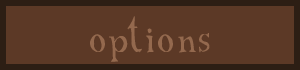
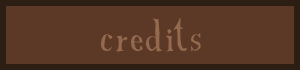
v 0.47
Credits screen and fishing

Changed region(s): [[0.3, 0.2286, 0.72, 0.8857]]

diff --git a/src/com/bourneless/entity/Person.java b/src/com/bourneless/entity/Person.java
@@ -72,6 +72,7 @@ public class Person extends Entity implements Serializable {
 
 	private boolean hasTree;
 	private boolean hasRock;
+	private boolean hasLake;
 
 	private Tile destinationTile;
 	private Tile currentTile;
@@ -79,6 +80,7 @@ public class Person extends Entity implements Serializable {
 	private boolean isWatering = false;
 	private boolean isMining = false;
 	private boolean isCutting = false;
+	private boolean isFishing = false;
 
 	private Inventory inventory;
 
@@ -91,6 +93,8 @@ public class Person extends Entity implements Serializable {
 
 	private Animation walkAnimation;
 	private boolean gotNightDestination;
+
+	private Lake lake;
 
 	private Timer waterTimer = new Timer(3000, new ActionListener() {
 		@Override
@@ -137,12 +141,26 @@ public class Person extends Entity implements Serializable {
 		}
 	});
 
+	private Timer fishingTimer = new Timer(3000, new ActionListener() {
+		@Override
+		public void actionPerformed(ActionEvent e) {
+			hasLake = false;
+			isFishing = false;
+			destinationPos = firePos;
+			inventory.addRawFish(1);
+			carrying = true;
+			stamina -= 10;
+			((Timer) e.getSource()).stop();
+		}
+	});
+
 	public Person(Item fire, Map map, God god, boolean carryingStockpile,
-			Cycle cycle) {
+			Cycle cycle, Lake lake) {
 		this.entityName = "Person";
 		godName = god.getName();
 		getSex();
 		this.name = setName();
+		this.lake = lake;
 
 		walkAnimation = new Animation(Main.resourceLoader.walkingImages, 100);
 		this.carryingStockpile = carryingStockpile;
@@ -252,6 +270,14 @@ public class Person extends Entity implements Serializable {
 			mineRock();
 		} else if (role == Role.woodcutter) {
 			cutTree();
+		} else if (role == Role.fisherman) {
+			if(hasLake) {
+				fish();
+			}
+			if (!hasLake) {
+				getLakeDestination();
+			}
+			
 		}
 
 		if (length <= 10 && length >= -10) {
@@ -357,6 +383,10 @@ public class Person extends Entity implements Serializable {
 			g.drawImage(Main.resourceLoader.hatchet,
 					pos.x + renderX + image.getWidth() - 6, pos.y + renderY
 							+ image.getHeight() / 2 + 5, null);
+		} else if (isFishing) {
+			g.drawImage(Main.resourceLoader.rod,
+					pos.x + renderX + image.getWidth() - 10, pos.y + renderY
+							- image.getHeight() / 4 + 5, null);
 		}
 	}
 
@@ -534,6 +564,33 @@ public class Person extends Entity implements Serializable {
 
 	}
 
+	public void getLakeDestination() {
+		if (!needStamina && !carrying && !hasLake && cycle.getDay()) {
+			hasLake = true;
+			hasDestination = true;
+			atDestination = false;
+			int getY = random.nextInt(Main.resourceLoader.lake.getHeight());
+			int getX = 0;
+			double rightLength = Math
+			.sqrt((lake.getPos().x + Main.resourceLoader.lake.getWidth() + 10 - pos.x)
+					* (lake.getPos().x + Main.resourceLoader.lake.getWidth() + 10 - pos.x)
+					+ (lake.getPos().y + getY - pos.y)
+					* (lake.getPos().y + getY - pos.y));
+			double leftLength = ((lake.getPos().x - 10 - pos.x)
+					* (lake.getPos().x - 10 - pos.x)
+					+ (lake.getPos().y + getY - pos.y)
+					* (lake.getPos().y + getY - pos.y));
+			double upLength;
+			double downLength;
+			if(rightLength < leftLength) {
+				getX = lake.getPos().x + Main.resourceLoader.lake.getWidth() + 20;
+			} else {
+				getX = lake.getPos().x - 20;
+			}
+			this.destinationPos = new Vector2(getX, lake.getPos().y + getY);
+		}
+	}
+
 	public boolean hasTree() {
 		return hasTree;
 	}
@@ -602,6 +659,12 @@ public class Person extends Entity implements Serializable {
 						+ " Rock to the Stockpile.");
 				stockpile.addRock(inventory.getRockCount());
 				inventory.removeRock();
+			}
+			if (inventory.getRawFishCount() > 0) {
+				System.out.println("Adding " + inventory.getRawFishCount()
+						+ " Raw Fish to the Stockpile.");
+				stockpile.addRawFish(inventory.getRawFishCount());
+				inventory.removeRawFish();
 			}
 			carrying = false;
 			hasDestination = false;
@@ -733,7 +796,7 @@ public class Person extends Entity implements Serializable {
 			gotNightDestination = false;
 			if (!hasDestination && stamina > 5 && !carryingStockpile
 					&& !carrying) {
-				if (!hasTree && !hasRock) {
+				if (!hasTree && !hasRock && !hasLake) {
 
 					int getDestination = random.nextInt(300);
 					if (getDestination == 1) {
@@ -830,6 +893,13 @@ public class Person extends Entity implements Serializable {
 		}
 	}
 
+	public void fish() {
+		if (length <= 10 && length >= -10) {
+			isFishing = true;
+			fishingTimer.start();
+		}
+	}
+
 	public void cutTree() {
 		if (hasTree) {
 			if (length <= 10 && length >= -10) {
@@ -843,7 +913,6 @@ public class Person extends Entity implements Serializable {
 		if (hasTree) {
 			if (length <= 10 && length >= -10) {
 				isWatering = true;
-
 				waterTimer.start();
 			}
 		}

diff --git a/src/com/bourneless/util/ResourceLoader.java b/src/com/bourneless/util/ResourceLoader.java
@@ -16,6 +16,8 @@ import javax.sound.sampled.FloatControl;
 
 public class ResourceLoader {
 
+	public BufferedImage icon;
+	
 	// Splash Assets
 	public BufferedImage splashImage;
 
@@ -46,6 +48,8 @@ public class ResourceLoader {
 
 	public Clip menuMusic;
 	public Clip menuClick;
+	
+	public BufferedImage creditRoll;
 
 	// Tile Assets
 
@@ -119,6 +123,7 @@ public class ResourceLoader {
 	public BufferedImage wateringcan;
 	public BufferedImage pickaxe;
 	public BufferedImage hatchet;
+	public BufferedImage rod;
 
 	// Mechanics
 	public BufferedImage lightsource;
@@ -133,6 +138,7 @@ public class ResourceLoader {
 	public ArrayList<String> femaleNames = new ArrayList<String>();
 
 	public ResourceLoader() {
+		icon = getBufferedImage("res/valleyIcon.png");
 		splashImage = getBufferedImage("res/splash.png");
 
 		menuTitle = getBufferedImage("res/menuTitle.png");
@@ -144,6 +150,7 @@ public class ResourceLoader {
 		saveImage = getBufferedImage("res/saveImage.png");
 		quit = getBufferedImage("res/quit.png");
 		options = getBufferedImage("res/options.png");
+		creditRoll = getBufferedImage("res/creditroll.png");
 
 		grass = getBufferedImage("res/tiles/grassTile.png");
 		cow = getBufferedImage("res/gameobjects/cow.png");
@@ -237,6 +244,7 @@ public class ResourceLoader {
 		wateringcan = getBufferedImage("res/skillobjects/wateringcan.png");
 		pickaxe = getBufferedImage("res/skillobjects/pickaxe.png");
 		hatchet = getBufferedImage("res/skillobjects/hatchet.png");
+		rod = getBufferedImage("res/skillobjects/rod.png");
 
 		rock = getBufferedImage("res/gameobjects/rock.png");
 		rockMined = getBufferedImage("res/gameobjects/rockMined.png");

diff --git a/src/com/bourneless/entity/Stockpile.java b/src/com/bourneless/entity/Stockpile.java
@@ -12,8 +12,9 @@ import com.bourneless.mechanics.Cycle;
 
 public class Stockpile extends Entity implements Serializable {
 
-	private int woodcount;
-	private int rockcount;
+	private int woodCount;
+	private int rockCount;
+	private int rawFishCount;
 
 	public Stockpile(Vector2 pos) {
 		this.entityName = "Stockpile";
@@ -22,8 +23,8 @@ public class Stockpile extends Entity implements Serializable {
 		this.image = Main.resourceLoader.stockpile;
 		this.rect = new Rectangle(this.pos.x, this.pos.y, image.getWidth(),
 				image.getHeight());
-		woodcount = 0;
-		rockcount = 0;
+		woodCount = 0;
+		rockCount = 0;
 	}
 
 	public void update(int renderX, int renderY, Map map, Cycle cycle) {
@@ -39,19 +40,27 @@ public class Stockpile extends Entity implements Serializable {
 	}
 
 	public void addWood(int i) {
-		this.woodcount += i;
+		this.woodCount += i;
 	}
 
 	public void addRock(int i) {
-		this.rockcount += i;
+		this.rockCount += i;
+	}
+	
+	public void addRawFish(int i) {
+		this.rawFishCount += i;
 	}
 
 	public int getWood() {
-		return this.woodcount;
+		return this.woodCount;
 	}
 
 	public int getRock() {
-		return this.rockcount;
+		return this.rockCount;
+	}
+	
+	public int getRawFishCount() {
+		return this.getRawFishCount();
 	}
 
 }

diff --git a/src/com/bourneless/screen/CreditsScreen.java b/src/com/bourneless/screen/CreditsScreen.java
@@ -1,0 +1,40 @@
+package com.bourneless.screen;
+
+import java.awt.Color;
+import java.awt.Graphics2D;
+import java.awt.event.KeyEvent;
+import java.awt.image.BufferedImage;
+
+import com.bourneless.main.Main;
+import com.bourneless.math.Vector2;
+
+public class CreditsScreen extends Screen {
+
+	public BufferedImage creditRoll;
+	public Vector2 creditPos;
+
+	public CreditsScreen() {
+		creditRoll = Main.resourceLoader.creditRoll;
+		creditPos = new Vector2(Main.GAME_WIDTH / 2
+				- creditRoll.getWidth() / 2, Main.GAME_HEIGHT);
+	}
+
+	public void update() {
+		creditPos.y--;
+		if(creditPos.y < 0 - creditRoll.getHeight() - 100) {
+			Main.game.setScreen(new MenuScreen());
+		}
+	}
+
+	public void paint(Graphics2D g) {
+		g.setColor(Color.BLACK);
+		g.fillRect(0, 0, Main.GAME_WIDTH, Main.GAME_HEIGHT);
+		g.drawImage(creditRoll, creditPos.x, creditPos.y, null);
+	}
+	
+	public void keyPressed(KeyEvent e) {
+		if(e.getKeyCode() == 27) {
+			Main.game.setScreen(new MenuScreen());
+		}
+	}
+}

diff --git a/src/com/bourneless/person/Inventory.java b/src/com/bourneless/person/Inventory.java
@@ -4,35 +4,48 @@ import java.io.Serializable;
 
 public class Inventory implements Serializable {
 
-	private int rockcount = 0;
-	private int woodcount = 0;
+	private int rockCount = 0;
+	private int woodCount = 0;
+	private int rawFishCount = 0;
 
 	public Inventory() {
 
 	}
 
 	public int getRockCount() {
-		return this.rockcount;
+		return this.rockCount;
 	}
 
 	public int getWoodCount() {
-		return this.woodcount;
+		return this.woodCount;
+	}
+	
+	public int getRawFishCount() {
+		return this.rawFishCount;
 	}
 
 	public void addRock(int i) {
-		rockcount += i;
+		rockCount += i;
 	}
 
 	public void addWood(int i) {
-		woodcount += i;
+		woodCount += i;
+	}
+	
+	public void addRawFish(int i) {
+		rawFishCount += i;
 	}
 	
 	public void removeRock() {
-		this.rockcount = 0;
+		this.rockCount = 0;
 	}
 	
 	public void removeWood() {
-		this.woodcount = 0;
+		this.woodCount = 0;
+	}
+	
+	public void removeRawFish() {
+		this.rawFishCount = 0;
 	}
 
 }

diff --git a/src/com/bourneless/game/Map.java b/src/com/bourneless/game/Map.java
@@ -284,10 +284,9 @@ public class Map implements Serializable {
 
 					if (spawnPerson == 1 && cycle.getDay()) {
 						System.out.println("Spawning Person..");
-
 						population++;
 						Person person = new Person(fire, this, god,
-								giveStockpile, cycle);
+								giveStockpile, cycle, lake);
 						giveStockpile = false;
 						entities.add(person);
 						people.add(person);

diff --git a/src/com/bourneless/screen/MenuScreen.java b/src/com/bourneless/screen/MenuScreen.java
@@ -104,6 +104,8 @@ public class MenuScreen extends Screen {
 				Main.game.setScreen(new MapScreen());
 			} else if(mouseRect.intersects(buttons[1].getRect())) {
 				loadGame();
+			} else if (mouseRect.intersects(buttons[2].getRect())) {
+				Main.game.setScreen(new CreditsScreen());
 			}
 		} else {
 			menuTitlePos.y = endMenuTitlePos.y;

diff --git a/src/com/bourneless/main/Main.java b/src/com/bourneless/main/Main.java
@@ -40,5 +40,6 @@ public class Main {
 		frame.setLocationRelativeTo(null); // Make window appear in centre of screen.
 		frame.setVisible(true); // Set the window to visible.
 		frame.createBufferStrategy(3);
+		frame.setIconImage(Main.resourceLoader.icon);
 	}
 }
